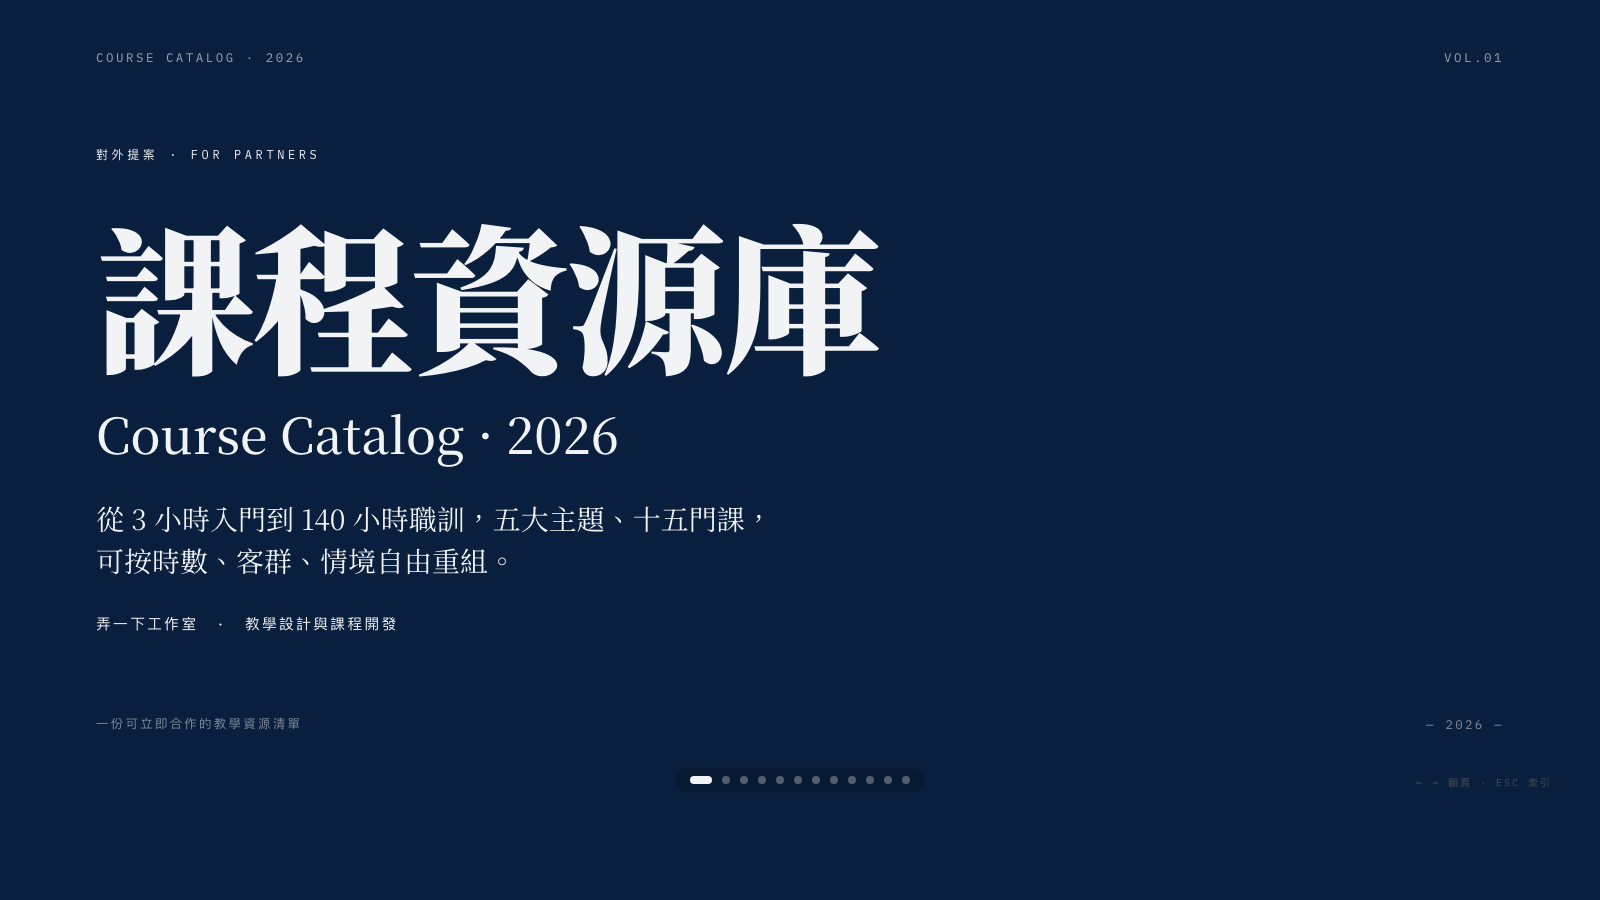
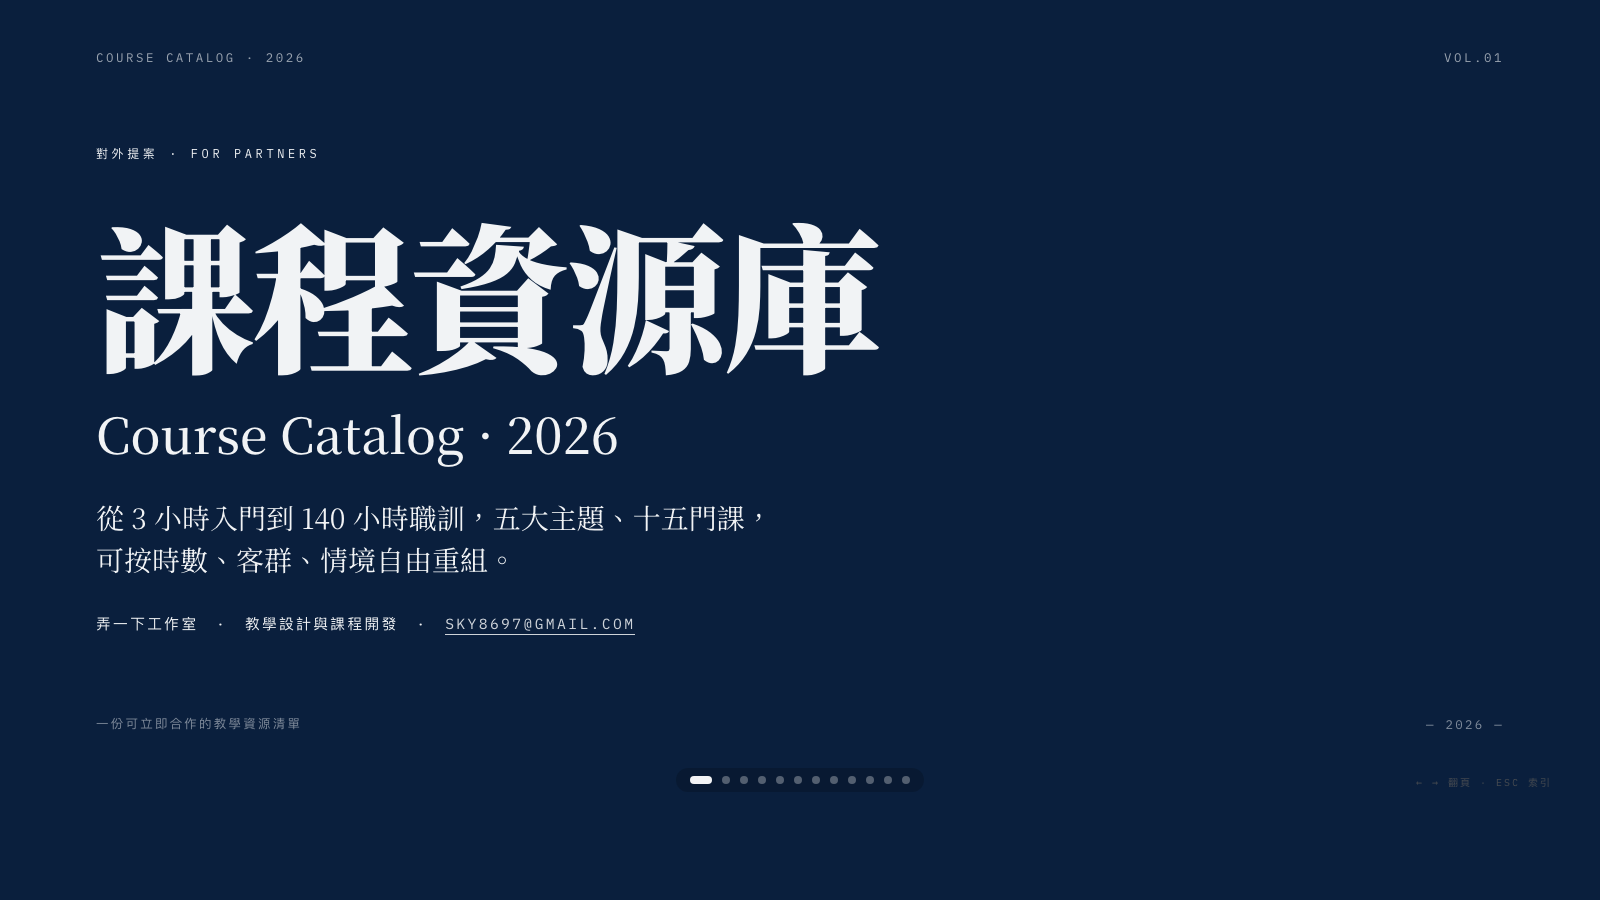
feat: 加聯繫信箱 sky8697@gmail.com 到封面 + CTA + README
- Page 1 封面：meta-row 加 mailto 連結
- Page 12 CTA：新增 Contact 區塊，email 用衬线大字 + 底線（最顯眼的可點擊元素）
- foot：補上 email
- README：加 CTA 截圖 + Contact 區塊
- preview-cover.png 重新生成

diff --git a/index.html b/index.html
@@ -162,7 +162,7 @@
       可按時數、客群、情境自由重組。
     </p>
     <div class="meta-row" data-anim>
-      <span>弄一下工作室</span><span>·</span><span>教學設計與課程開發</span>
+      <span>弄一下工作室</span><span>·</span><span>教學設計與課程開發</span><span>·</span><a href="mailto:sky8697@gmail.com" style="color:inherit;text-decoration:none;border-bottom:1px solid currentColor;padding-bottom:.1em;opacity:.85">sky8697@gmail.com</a>
     </div>
   </div>
   <div class="foot">
@@ -592,12 +592,18 @@
       告訴我們客群、時數與目標，<br>
       我們從現有資源庫重組出最貼合的方案。
     </p>
+    <div data-anim style="margin-top:2vh">
+      <div class="kicker" style="margin-bottom:1.4vh; opacity:.55">Contact · 聯繫信箱</div>
+      <a href="mailto:sky8697@gmail.com?subject=課程合作洽談" style="font-family:var(--serif-zh); font-weight:600; font-size:3vw; line-height:1.1; color:inherit; text-decoration:none; border-bottom:1px solid currentColor; padding-bottom:.1em">
+        sky8697@gmail.com
+      </a>
+    </div>
     <div class="meta-row" data-anim>
       <span>弄一下工作室</span><span>·</span><span>2026</span><span>·</span><span>Course Catalog</span>
     </div>
   </div>
   <div class="foot">
-    <div>Thank you</div>
+    <div>Thank you · sky8697@gmail.com</div>
     <div>— Fin —</div>
   </div>
 </section>

diff --git a/README.md b/README.md
@@ -12,6 +12,14 @@
 
 ![Theme I · 六大教學模組](docs/preview-modules.png)
 
+![CTA · 開始合作](docs/preview-cta.png)
+
+---
+
+## 聯繫
+
+**sky8697@gmail.com** — 有合作或客製需求請寄信來，告訴我們客群、時數與目標，我們從現有資源庫重組出最貼合的方案。
+
 ---
 
 ## 內容結構（共 12 頁）
